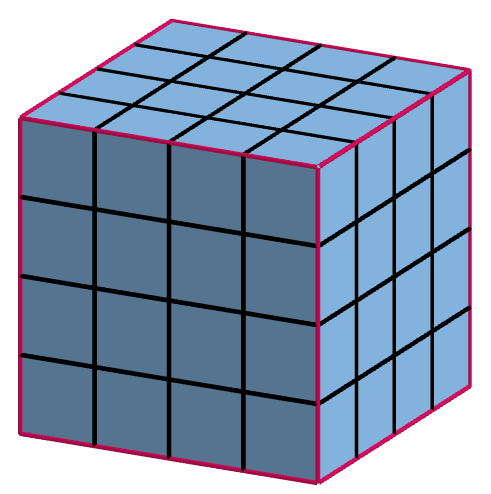
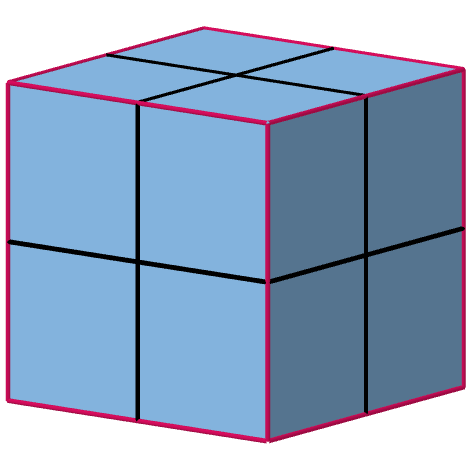
Cambio en la razón k del ejemplo de la dimensión (#33)

diff --git a/memoria/tex/capitulos/capitulo-1.tex b/memoria/tex/capitulos/capitulo-1.tex
@@ -186,18 +186,18 @@ Un posible enfoque para definir la dimensión puede ser el recién presentado, e
 \subsection{Dimension fractal autosimilar}
 \label{subsection:dim-frac-autosimilar}
 
-Volvamos a pensar en un segmento de recta, un cuadrado y un cubo, objetos de 1, 2 y 3 dimensiones respectivamente. Ahora dividamos los lados de cada objeto en 4 tal y como indica la imagen \ref{fig:divisiones}. Entonces en el segmento aparecen $N(4):=4=4^1$ segmentos que son imagen de una homotecia de razón $r=\frac 1 4$ del original, en el cuadrado se obtienen $N(4):=16=4^2$ cuadrados, cada uno imagen de una homotecia de razón $\frac 1 4$ del cuadrado inicial y en el cubo $N(4):=64=4^3$ cubos, de nuevo cada uno de ellos imagen de una homotecia de razón $\frac 1 4$ del cubo original.
+Pensemos ahora en un segmento de recta, un cuadrado y un cubo, que son objetos indudablemente de 1, 2 y 3 dimensiones respectivamente. Ahora dividamos los lados de cada objeto en 3 tal y como indica la imagen \ref{fig:divisiones}. Entonces en el segmento aparecen $N(2):=2=2^1$ segmentos que son imagen de una homotecia de razón $r=\frac 1 2$ del original, en el cuadrado se obtienen $N(2):=4=2^2$ cuadrados, cada uno imagen de una homotecia de razón $\frac 1 2$ del cuadrado inicial y en el cubo $N(2):=8=2^3$ cubos, de nuevo cada uno de ellos imagen de una homotecia de razón $\frac 1 2$ del cubo original.
 
 \begin{figure}[ht]
 \begin{tabular}{ccc}
   \includegraphics[scale=0.15]{./img/linea-dividida.png} &   \includegraphics[scale=0.15]{./img/cuadrado-dividido.png} & \includegraphics[scale=0.2]{./img/cubo-dividido.png}\\
-(a) Segmento dividido en 4 & (b) Cuadrado dividido en 16 & (c) Cubo dividido en 64 \\[4pt]
+(a) Segmento dividido en 2 & (b) Cuadrado dividido en 4 & (c) Cubo dividido en 8 \\[4pt]
 \end{tabular}
-\caption{Segmento, cuadrado y cubo divididos en 4}
+\caption{Segmento, cuadrado y cubo divididos en objetos a razón $\frac 1 2$}
 \label{fig:divisiones}
 \end{figure}
 
-Si en lugar de 4 tomamos cualquier número natural $k\geq 1$, la razón de la homotecia sería $r=\frac 1 k$ y en ese caso se obtendrían $N(k)=k^1$ segmentos de recta, $N(k)=k^2$ cuadrados y $N(k)=k^3$ cubos, en todos los casos a escala $r=\frac 1 k$ de los objetos originales. Estas igualdades se pueden reescribir como:
+Si en lugar de 2 tomamos cualquier número natural $k\geq 1$, la razón de la homotecia sería $r=\frac 1 k$ y en ese caso se obtendrían $N(k)=k^1$ segmentos de recta, $N(k)=k^2$ cuadrados y $N(k)=k^3$ cubos, en todos los casos a escala $r=\frac 1 k$ de los objetos originales. Estas igualdades se pueden reescribir como:
 
 \begin{equation}\label{eq:relaciones-dimension}
 \frac{N(k)}{k^1}=1 \hspace{2cm} \frac{N(k)}{k^2}=1 \hspace{2cm} \frac{N(k)}{k^3}=1
